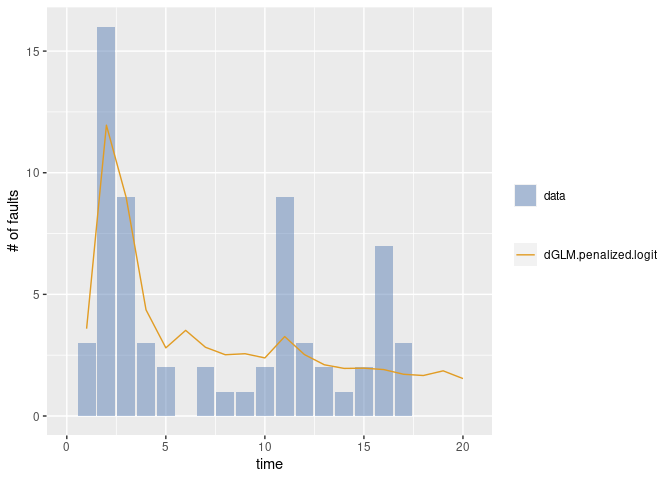
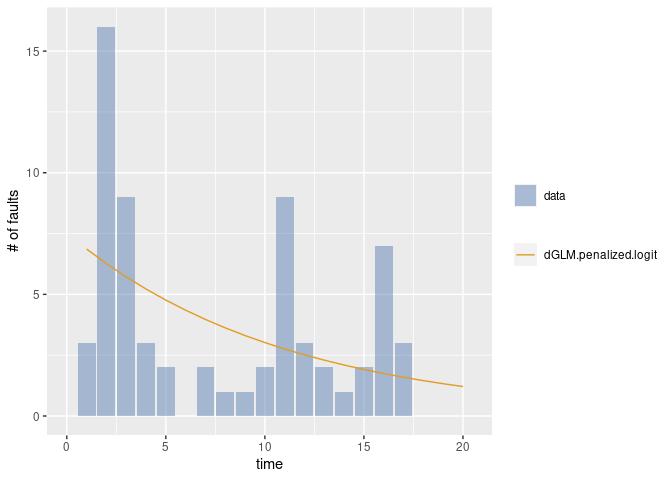
add penalty

diff --git a/README.md b/README.md
@@ -462,9 +462,103 @@ dmet.ds1
 ### Esimate the model for d-metrics
 ### lambda is the hyper parameter to determine the magniture of penalty.
 ### alpha is the parameter to determine the lorm; alpha=1 means L1 norm, alpha=0 indicates L2 norm
-wopt <- getOption("warn")
-options(warn = -1)
-(result <- fit.srm.logit.penalized(formula=fault~., data=dmet.ds1, lambda=0.01, alpha=1))
+(result <- fit.srm.logit.penalized(formula=fault~., data=dmet.ds1, lambda=0.1, alpha=1))
+#> Warning in Rsrat::emfit(model, ldata, initialize = TRUE, maxiter =
+#> con$maxiter, : LLF decreses: dGLM.penalized.logit 8 -4.815128e-03
+#> Warning in Rsrat::emfit(model, ldata, initialize = TRUE, maxiter =
+#> con$maxiter, : LLF decreses: dGLM.penalized.logit 9 -8.356620e-03
+#> Warning in Rsrat::emfit(model, ldata, initialize = TRUE, maxiter =
+#> con$maxiter, : LLF decreses: dGLM.penalized.logit 10 -9.025693e-03
+#> Warning in Rsrat::emfit(model, ldata, initialize = TRUE, maxiter =
+#> con$maxiter, : LLF decreses: dGLM.penalized.logit 11 -8.494761e-03
+#> Warning in Rsrat::emfit(model, ldata, initialize = TRUE, maxiter =
+#> con$maxiter, : LLF decreses: dGLM.penalized.logit 12 -7.515602e-03
+#> Warning in Rsrat::emfit(model, ldata, initialize = TRUE, maxiter =
+#> con$maxiter, : LLF decreses: dGLM.penalized.logit 13 -6.431391e-03
+#> Warning in Rsrat::emfit(model, ldata, initialize = TRUE, maxiter =
+#> con$maxiter, : LLF decreses: dGLM.penalized.logit 14 -5.394990e-03
+#> Warning in Rsrat::emfit(model, ldata, initialize = TRUE, maxiter =
+#> con$maxiter, : LLF decreses: dGLM.penalized.logit 15 -4.468176e-03
+#> Warning in Rsrat::emfit(model, ldata, initialize = TRUE, maxiter =
+#> con$maxiter, : LLF decreses: dGLM.penalized.logit 16 -3.668910e-03
+#> Warning in Rsrat::emfit(model, ldata, initialize = TRUE, maxiter =
+#> con$maxiter, : LLF decreses: dGLM.penalized.logit 17 -2.994591e-03
+#> Warning in Rsrat::emfit(model, ldata, initialize = TRUE, maxiter =
+#> con$maxiter, : LLF decreses: dGLM.penalized.logit 18 -2.433695e-03
+#> Warning in Rsrat::emfit(model, ldata, initialize = TRUE, maxiter =
+#> con$maxiter, : LLF decreses: dGLM.penalized.logit 19 -1.971607e-03
+#> Warning in Rsrat::emfit(model, ldata, initialize = TRUE, maxiter =
+#> con$maxiter, : LLF decreses: dGLM.penalized.logit 20 -1.593485e-03
+#> Warning in Rsrat::emfit(model, ldata, initialize = TRUE, maxiter =
+#> con$maxiter, : LLF decreses: dGLM.penalized.logit 21 -1.285575e-03
+#> Warning in Rsrat::emfit(model, ldata, initialize = TRUE, maxiter =
+#> con$maxiter, : LLF decreses: dGLM.penalized.logit 22 -1.035740e-03
+#> Warning in Rsrat::emfit(model, ldata, initialize = TRUE, maxiter =
+#> con$maxiter, : LLF decreses: dGLM.penalized.logit 23 -8.335721e-04
+#> Warning in Rsrat::emfit(model, ldata, initialize = TRUE, maxiter =
+#> con$maxiter, : LLF decreses: dGLM.penalized.logit 24 -6.703120e-04
+#> Warning in Rsrat::emfit(model, ldata, initialize = TRUE, maxiter =
+#> con$maxiter, : LLF decreses: dGLM.penalized.logit 25 -5.386789e-04
+#> Warning in Rsrat::emfit(model, ldata, initialize = TRUE, maxiter =
+#> con$maxiter, : LLF decreses: dGLM.penalized.logit 26 -4.326751e-04
+#> Warning in Rsrat::emfit(model, ldata, initialize = TRUE, maxiter =
+#> con$maxiter, : LLF decreses: dGLM.penalized.logit 27 -3.473916e-04
+#> Warning in Rsrat::emfit(model, ldata, initialize = TRUE, maxiter =
+#> con$maxiter, : LLF decreses: dGLM.penalized.logit 28 -2.788294e-04
+#> Warning in Rsrat::emfit(model, ldata, initialize = TRUE, maxiter =
+#> con$maxiter, : LLF decreses: dGLM.penalized.logit 29 -2.237423e-04
+#> Warning in Rsrat::emfit(model, ldata, initialize = TRUE, maxiter =
+#> con$maxiter, : LLF decreses: dGLM.penalized.logit 30 -1.795024e-04
+#> Warning in Rsrat::emfit(model, ldata, initialize = TRUE, maxiter =
+#> con$maxiter, : LLF decreses: dGLM.penalized.logit 31 -1.439869e-04
+#> Warning in Rsrat::emfit(model, ldata, initialize = TRUE, maxiter =
+#> con$maxiter, : LLF decreses: dGLM.penalized.logit 32 -1.154836e-04
+#> Warning in Rsrat::emfit(model, ldata, initialize = TRUE, maxiter =
+#> con$maxiter, : LLF decreses: dGLM.penalized.logit 33 -9.261331e-05
+#> Warning in Rsrat::emfit(model, ldata, initialize = TRUE, maxiter =
+#> con$maxiter, : LLF decreses: dGLM.penalized.logit 34 -7.426617e-05
+#> Warning in Rsrat::emfit(model, ldata, initialize = TRUE, maxiter =
+#> con$maxiter, : LLF decreses: dGLM.penalized.logit 35 -5.954981e-05
+#> Warning in Rsrat::emfit(model, ldata, initialize = TRUE, maxiter =
+#> con$maxiter, : LLF decreses: dGLM.penalized.logit 36 -4.774711e-05
+#> Warning in Rsrat::emfit(model, ldata, initialize = TRUE, maxiter =
+#> con$maxiter, : LLF decreses: dGLM.penalized.logit 37 -3.828210e-05
+#> Warning in Rsrat::emfit(model, ldata, initialize = TRUE, maxiter =
+#> con$maxiter, : LLF decreses: dGLM.penalized.logit 38 -3.069233e-05
+#> Warning in Rsrat::emfit(model, ldata, initialize = TRUE, maxiter =
+#> con$maxiter, : LLF decreses: dGLM.penalized.logit 39 -2.460664e-05
+#> Warning in Rsrat::emfit(model, ldata, initialize = TRUE, maxiter =
+#> con$maxiter, : LLF decreses: dGLM.penalized.logit 40 -1.972720e-05
+#> Warning in Rsrat::emfit(model, ldata, initialize = TRUE, maxiter =
+#> con$maxiter, : LLF decreses: dGLM.penalized.logit 41 -1.581508e-05
+#> Warning in Rsrat::emfit(model, ldata, initialize = TRUE, maxiter =
+#> con$maxiter, : LLF decreses: dGLM.penalized.logit 42 -1.267859e-05
+#> Warning in Rsrat::emfit(model, ldata, initialize = TRUE, maxiter =
+#> con$maxiter, : LLF decreses: dGLM.penalized.logit 43 -1.016403e-05
+#> Warning in Rsrat::emfit(model, ldata, initialize = TRUE, maxiter =
+#> con$maxiter, : LLF decreses: dGLM.penalized.logit 44 -8.148117e-06
+#> Warning in Rsrat::emfit(model, ldata, initialize = TRUE, maxiter =
+#> con$maxiter, : LLF decreses: dGLM.penalized.logit 45 -6.531988e-06
+#> Warning in Rsrat::emfit(model, ldata, initialize = TRUE, maxiter =
+#> con$maxiter, : LLF decreses: dGLM.penalized.logit 46 -5.236378e-06
+#> Warning in Rsrat::emfit(model, ldata, initialize = TRUE, maxiter =
+#> con$maxiter, : LLF decreses: dGLM.penalized.logit 47 -4.197732e-06
+#> Warning in Rsrat::emfit(model, ldata, initialize = TRUE, maxiter =
+#> con$maxiter, : LLF decreses: dGLM.penalized.logit 48 -3.365090e-06
+#> Warning in Rsrat::emfit(model, ldata, initialize = TRUE, maxiter =
+#> con$maxiter, : LLF decreses: dGLM.penalized.logit 49 -2.697600e-06
+#> Warning in Rsrat::emfit(model, ldata, initialize = TRUE, maxiter =
+#> con$maxiter, : LLF decreses: dGLM.penalized.logit 50 -2.162506e-06
+#> Warning in Rsrat::emfit(model, ldata, initialize = TRUE, maxiter =
+#> con$maxiter, : LLF decreses: dGLM.penalized.logit 51 -1.733550e-06
+#> Warning in Rsrat::emfit(model, ldata, initialize = TRUE, maxiter =
+#> con$maxiter, : LLF decreses: dGLM.penalized.logit 52 -1.389680e-06
+#> Warning in Rsrat::emfit(model, ldata, initialize = TRUE, maxiter =
+#> con$maxiter, : LLF decreses: dGLM.penalized.logit 53 -1.114019e-06
+#> Warning in Rsrat::emfit(model, ldata, initialize = TRUE, maxiter =
+#> con$maxiter, : LLF decreses: dGLM.penalized.logit 54 -8.930379e-07
+#> Warning in Rsrat::emfit(model, ldata, initialize = TRUE, maxiter =
+#> con$maxiter, : LLF decreses: dGLM.penalized.logit 55 -7.158911e-07
 #>    fault X.Intercept. day  tc ctc   cov  ccov
 #> 1      3            1   1   5   5 0.018 0.018
 #> 2     16            1   2 175 180 0.409 0.427
@@ -490,13 +584,12 @@ options(warn = -1)
 #> Link function: logit
 #> 
 #>       omega  (Intercept)          day           tc          ctc          cov  
-#>  112.419523    -3.455493     0.000000     0.006046     0.000000     0.745824  
+#>      78.673       -2.348        0.000        0.000        0.000        0.000  
 #>        ccov  
-#>    0.000000  
-#> Maximum LLF: -42.89942 
-#> AIC: 99.79884 
+#>       0.000  
+#> Maximum LLF: -58.88721 
+#> AIC: 131.7744 
 #> Convergence: TRUE
-options(warn = wopt)
 
 ### Draw the number of faults for each day and the number of faults estimated by the model (dmvplot is in Rsrat package)
 dmvfplot(fault=dmet.ds1$fault, srms=list(result$srm))
@@ -705,8 +798,6 @@ data.tomcat5 <- list(catalina=tomcat5.catalina,
 #> Convergence: TRUE
 
 ### Estimate s-metrics parameters with penalty
-wopt <- getOption("warn")
-options(warn = -1)
 (result <- fit.srm.poireg.penalized(formula=~., data=tomcat5.smet, srms=results.tomcat5, lambda=1))
 #>           X.Intercept.    LOC    St   Br   Co   Fn  Mc   Ac
 #> catalina             1 125462 39386 19.2 34.4 4543  90 2.79
@@ -718,9 +809,9 @@ options(warn = -1)
 #> 
 #> Link function: log
 #>   (Intercept)           LOC            St            Br            Co 
-#>  3.7120628429  0.0000000000  0.0000000000  0.0836116150  0.0000000000 
+#>  3.7120308051  0.0000000000  0.0000000000  0.0836159762  0.0000000000 
 #>            Fn            Mc            Ac 
-#>  0.0004273624 -0.0188146028  0.0000000000 
+#>  0.0004273504 -0.0188145514  0.0000000000 
 #> 
 #> catalina
 #> Model name: gamma
@@ -728,27 +819,26 @@ options(warn = -1)
 #> 
 #> connector
 #> Model name: gamma
-#> [1]  94.766574   4.856735   0.003879
+#> [1]  94.765592   4.856737   0.003879
 #> 
 #> jasper
 #> Model name: gamma
-#> [1]  77.227946   4.777069   0.004602
+#> [1]  77.230726   4.777068   0.004602
 #> 
 #> servlets
 #> Model name: gamma
-#> [1]  58.132276   5.281945   0.004888
+#> [1]  58.132240   5.281945   0.004888
 #> 
 #> tester
 #> Model name: gamma
-#> [1]  9.165e+01  2.219e+00  6.455e-05
+#> [1]  9.166e+01  2.200e+00  6.298e-05
 #> 
 #> webapps
 #> Model name: gamma
-#> [1]  67.689004   2.745854   0.002334
-#> Maximum LLF: -574.8666 
-#> AIC: 1189.733 
+#> [1]  67.688933   2.745854   0.002334
+#> Maximum LLF: -597.7553 
+#> AIC: 1235.511 
 #> Convergence: TRUE
-options(warn = wopt)
 
 ### Draw 
 mvfplot(time=time, fault=fault, data=tomcat5.catalina,
